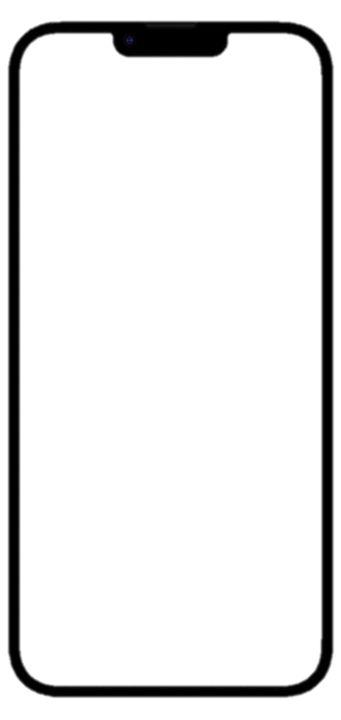
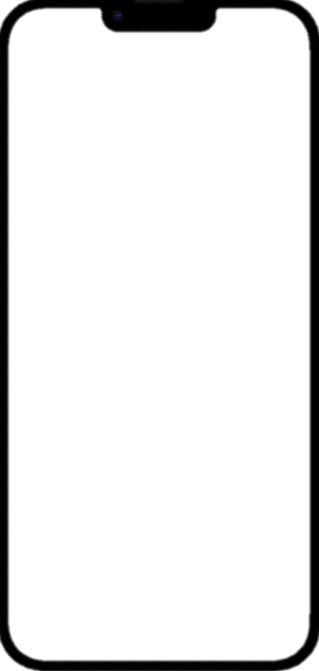
test for mobile

Changed region(s): [[0.0, 0.0, 1.0, 1.0]]

diff --git a/main.html b/main.html
@@ -10,10 +10,11 @@
 </head>
 
 <body>
-    <div class = "iphoneWindow">
-        <img src = "./image/iphone.png" >
-    </div>
-    <div class = "container">
+    
+    <div class = "mobileSized">
+        <div class = "iphoneWindow">
+            <img src = "./image/iphone.png" class = "iphone">
+        </div>
         <header>
             <div class = "topMenu">
                 <img src = "./image/leftArrow.png" onclick = "window.history.back();" style = "width : 20px">
@@ -32,29 +33,31 @@
                     <span class = "placeButton" onclick="scrollToTarget('place5')"> p5 </span>
                 </div>
                 <span class = "mapMenu" onclick="scrollToTarget('mapField')">
-                    Map Menu
+                    Map
                 </span>
             </div>
         </header>
-        
-        <div class = "mainField"> <!-- 슬라이드로 상하 이동이 가능하도록 하자  -->
-            
-            <div class = "menuMargin"></div>
-            <div Id = "mapField">
-                <div id="map" style="width: 100%; height: 500px;"></div>
-            </div>
-            <div class = "placeField">
-                <div id = "place1"> place 1 </div>
-                <div id = "place2"> place 2 </div>
-                <div id = "place3"> place 3 </div>
-                <div id = "place4"> place 4 </div>
-                <div id = "place5"> place 5 </div>
-                <div class = "blank"></div>
-            </div>       
-            
-
+        <div class = "container">
+            <div class = "mainField"> <!-- 슬라이드로 상하 이동이 가능하도록 하자  -->
+                <div class = "menuMargin"></div>
+                <div Id = "mapField">
+                    <div id="map" style="width: 100%; height: 500px;"></div>
+                    <div class = "mapContent"> 설명 </div>
+                </div>
+                <div class = "placeField">
+                    <div id = "place1"> place 1 </div>
+                    <div id = "place2"> place 2 </div>
+                    <div id = "place3"> place 3 </div>
+                    <div id = "place4"> place 4 </div>
+                    <div id = "place5"> place 5 </div>
+                    <div class = "blank"></div>
+                </div>       
+                
+    
             </div>     
         </div>
+    </div>
+    
         
         
     </div>   
@@ -129,7 +132,7 @@
         function scrollToTarget(Id) {
             const targetElement = document.getElementById(Id);
             const rect = targetElement.getBoundingClientRect();
-            const offsetTop = window.pageYOffset + rect.top - 120;
+            const offsetTop = window.pageYOffset + rect.top - 260;
             window.scrollTo({
                 top: offsetTop,
                 behavior: 'smooth'

diff --git a/css/main.css b/css/main.css
@@ -1,16 +1,30 @@
-
-
-body { 
-    width : 100vw;
-    height : 100vh;
-    display : flex;    
+@media only screen and (-webkit-min-device-pixel-ratio: 3) {
+    /* CSS */
 }
 
+body { 
+     display: flex;
+     justify-content: center;
+}
+
+.mobileSized{
+    width : 480px;
+    height : 100vh;
+    display : flex;
+    margin-top : 70px;
+}
 
 .iphoneWindow {
     display : flex;
-    position: absolute;
+    position: fixed;
     justify-content: center;
+    top : 75px;
+}
+
+.iphone {
+    width : 475px;
+    top : 0;
+    right : 50;
 }
 
 header{    
@@ -18,10 +32,14 @@ header{
     flex-direction: column;
     position : fixed;
     z-index : 100;
-    top : 0;
+    top : 70;
     font-size : 20px;
-    border-radius : 5px;   
-    width : 90%;  
+    border-radius : 10px;   
+    width : 450px;  
+    margin-top : 50px;
+    margin-left : 12px;
+    background-color : gray;
+    padding : 8px;
 }
 
 .topMenu {
@@ -55,7 +73,7 @@ header{
 }
 
 .darkToggle {
-    margin-right : 30px;
+    margin-right : 30px; 
 }
 
 .main{
@@ -68,7 +86,7 @@ header{
 }
 
 .menuMargin {
-    height : 110px;
+    height : 180px; 
 }
 
 .placeButton {
@@ -85,55 +103,43 @@ header{
 }
 
 .mainField{
-    margin-top : 1000px;
-    border : 1px solid purple;
     margin : 5px;
+    margin-left : -2px;
     padding : 5px;
 }
 
 #mapField{
-    height : 500px;
-    border : 2px solid darkred;
+    height : 780px;
+    margin-bottom: 50px;
 }
 
-.placeField{
-    height : 500px;
-    border : 2px solid darkorange;
+.mapContent{
+    margin : 10px;
 }
-
 
 #place1{
-    display : block;
-    height : 500px;
-    border : 4px solid black;
+    height : 780px;
+    margin-bottom: 50px;
 }
 
 #place2{
-    display : block;
-    height : 500px;
-    border : 4px solid black;
+    height : 780px;
+    margin-bottom: 50px;
 }
-
 #place3{
-    display : block;
-    height : 500px;
-    border : 4px solid black;
+    height : 780px;
+    margin-bottom: 50px;
 }
-
 #place4{
-    display : block;
-    height : 500px;
-    border : 4px solid black;
+    height : 780px;
+    margin-bottom: 50px;
+}
+#place5{
+    height : 780px;
+    margin-bottom: 50px;
 }
 
-#place5{
-    display : block;
-    height : 500px;
-    border : 4px solid black;
-} 
 
-
-.blank {        
-    border : 1px solid cyan;
+.blank { 
     height : 500px;
 }
